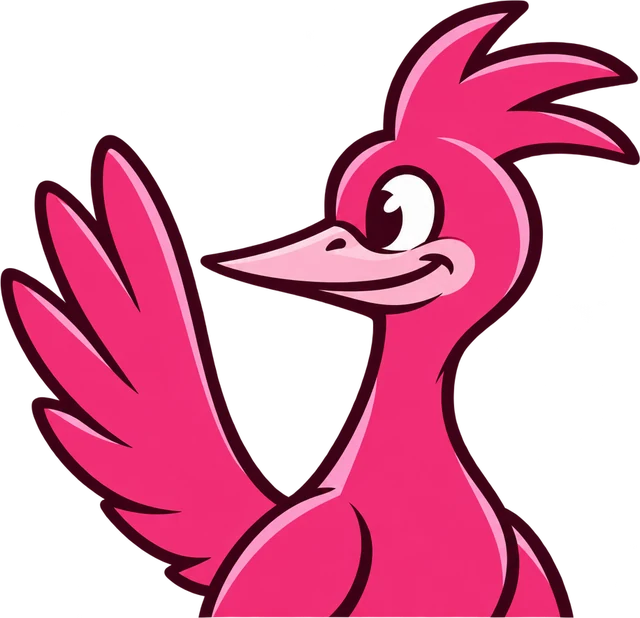
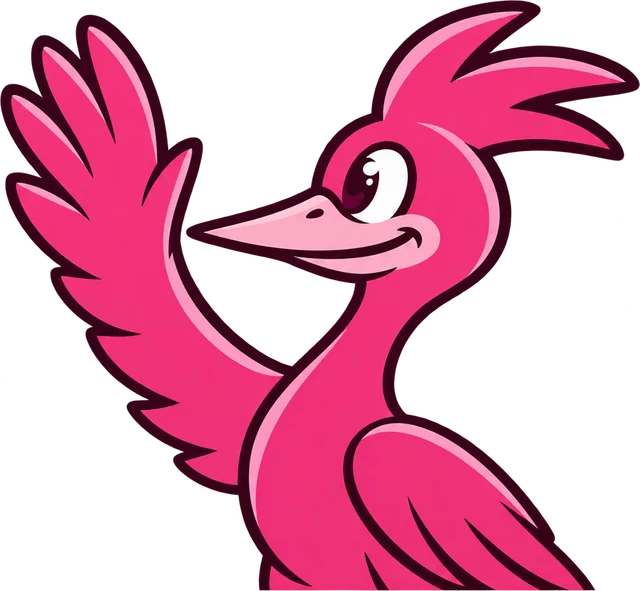
lander: redraw the hero roadrunner facing one way
The first one had its chest facing right while its head and waving wing
faced left. The new one faces left toward the sign head to chest, waving
with its front wing.

diff --git a/components/lander/hero.tsx b/components/lander/hero.tsx
@@ -121,7 +121,7 @@ export function Hero() {
               rotate: { delay: 2.1, duration: 2.2, times: [0, 0.3, 0.45, 0.6, 0.78, 1], ease: 'easeInOut' },
             }}
           >
-            <Image src="/images/lander/roadrunner-wave.webp" alt="" width={640} height={618} sizes="230px" className="h-full w-auto" />
+            <Image src="/images/lander/roadrunner-wave.webp" alt="" width={640} height={591} sizes="240px" className="h-full w-auto" />
           </motion.div>
         </div>
       </section>
